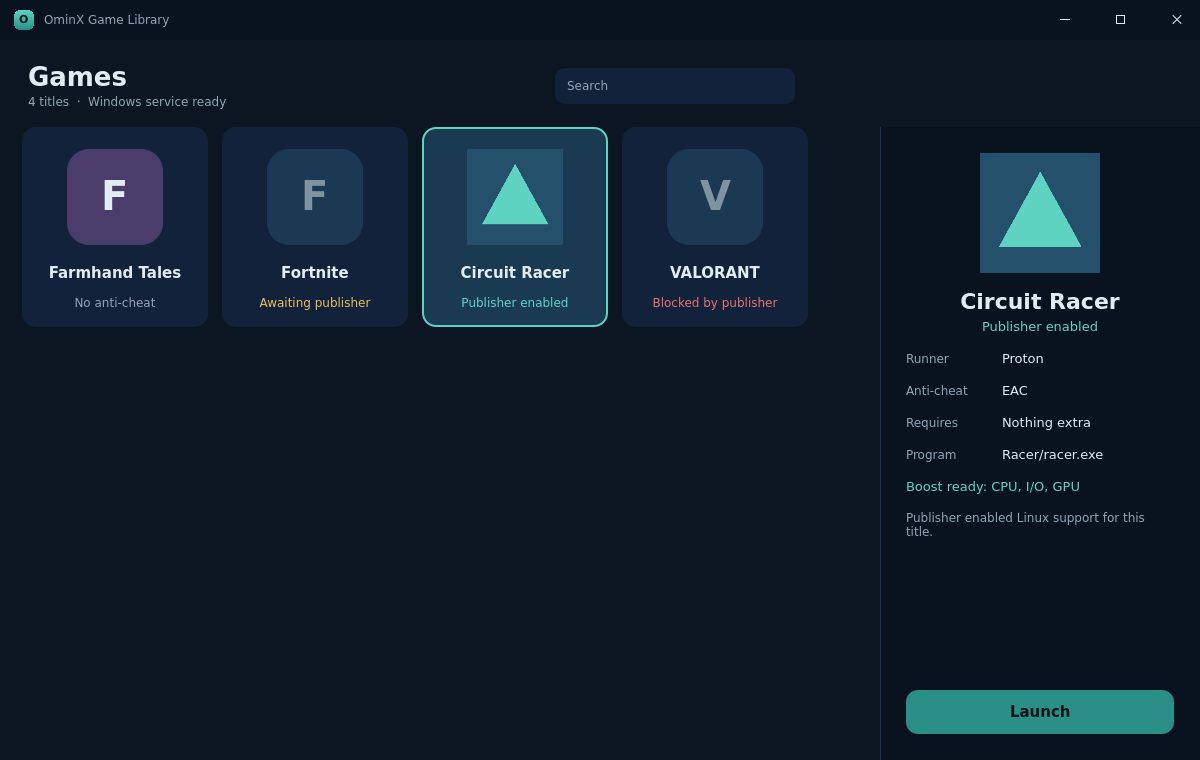
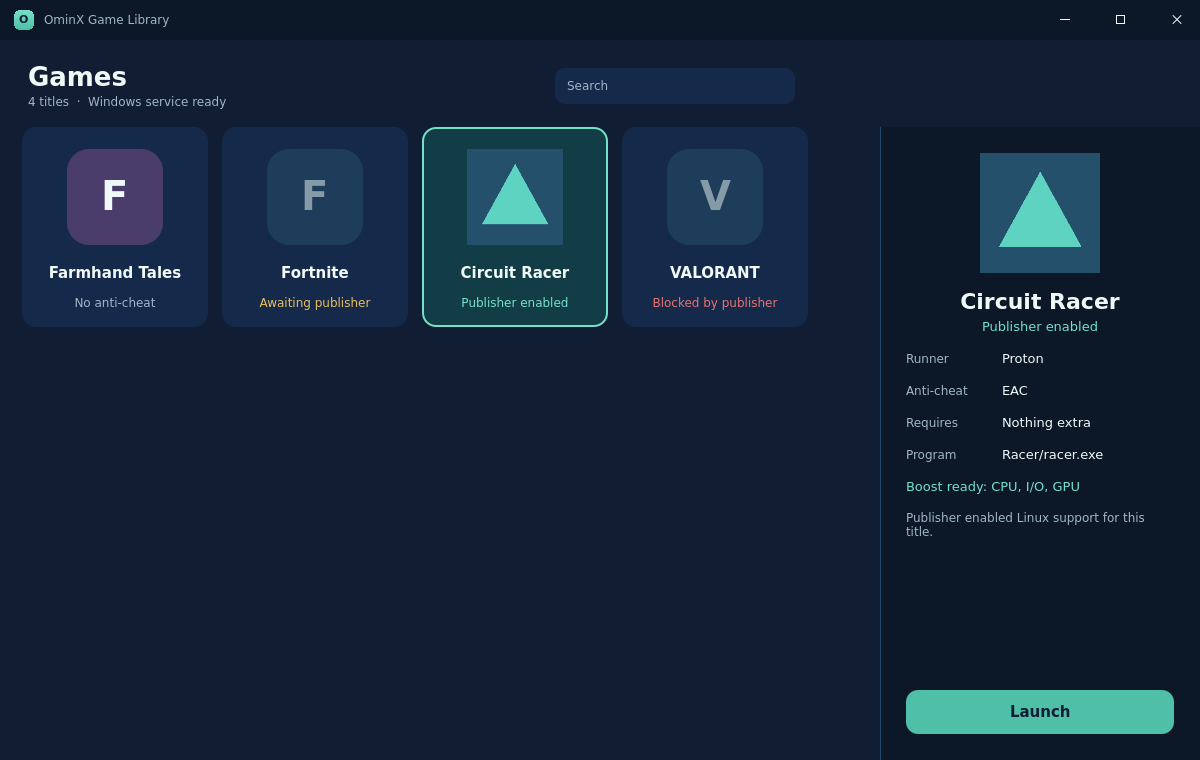
Brand palette, extra filesystems, and product status matrix
- Game library uses the OminX brand palette (navy, teal, dark cyan,
  slate blue, soft white).
- build.sh enables EXT2, EXT3, BTRFS and XFS alongside the existing
  NTFS, exFAT, FAT32, ext4, ISO9660 and UDF options.
- docs/product-status.md maps every claim in the OminXOS brief to what
  the repository does, marking each as built, partial, not started, or
  target. Unmeasured figures, including the 89% compatibility target,
  are not claimed.

Changed region(s): [[0.74, 0.9079, 0.9867, 0.9684], [0.0, 0.0, 0.0308, 0.0605]]

diff --git a/desktop/game-library/qml/Theme.qml b/desktop/game-library/qml/Theme.qml
@@ -5,21 +5,28 @@ import QtQuick
 // Labels map the stable JSON values from `ominx-win game list --json` to words
 // a player understands. The JSON values never change; only the wording does.
 QtObject {
-    readonly property color background: "#0b1622"
-    readonly property color chrome: "#091320"
-    readonly property color card: "#12223a"
-    readonly property color cardHover: "#172c47"
-    readonly property color cardSelected: "#1a3a52"
-    readonly property color hover: "#16283d"
-    readonly property color line: "#1d3350"
-    readonly property color accent: "#5fd3c1"
-    readonly property color accentDeep: "#2a8f87"
+    // OminX brand palette: Deep Navy, Ocean Teal, Dark Cyan, Slate Blue, Soft White.
+    readonly property color navy: "#101d32"
+    readonly property color teal: "#74e0c7"
+    readonly property color darkCyan: "#123d46"
+    readonly property color slate: "#244767"
+    readonly property color softWhite: "#eff9f7"
+
+    readonly property color background: navy
+    readonly property color chrome: "#0c1728"
+    readonly property color card: "#15294a"
+    readonly property color cardHover: "#1b3558"
+    readonly property color cardSelected: darkCyan
+    readonly property color hover: "#1b3558"
+    readonly property color line: "#24466a"
+    readonly property color accent: teal
+    readonly property color accentDeep: "#4fbfa8"
     readonly property color amber: "#e8be60"
     readonly property color red: "#e87171"
     readonly property color closeRed: "#c42b1c"
-    readonly property color text: "#e2ecf2"
-    readonly property color muted: "#8fa4b4"
-    readonly property color disabled: "#3b5165"
+    readonly property color text: softWhite
+    readonly property color muted: "#9fb6c6"
+    readonly property color disabled: "#3d5a78"
 
     // Monogram tile colours when a title has no icon file. Chosen per runner.
     function tileColor(runner) {

diff --git a/desktop/game-library/qml/TitleBar.qml b/desktop/game-library/qml/TitleBar.qml
@@ -33,7 +33,7 @@ Rectangle {
                 GradientStop { position: 0; color: Theme.accent }
                 GradientStop { position: 1; color: Theme.accentDeep }
             }
-            Text { anchors.centerIn: parent; text: bar.mark; color: "#06141a"; font.pixelSize: 11; font.weight: Font.Black }
+            Text { anchors.centerIn: parent; text: bar.mark; color: Theme.navy; font.pixelSize: 11; font.weight: Font.Black }
         }
 
         Text {

diff --git a/desktop/game-library/qml/DetailPanel.qml b/desktop/game-library/qml/DetailPanel.qml
@@ -139,7 +139,7 @@ Rectangle {
             Text {
                 anchors.centerIn: parent
                 text: "Launch"
-                color: "#06141a"
+                color: Theme.navy
                 font.pixelSize: 15
                 font.weight: Font.DemiBold
             }

diff --git a/docs/product-status.md b/docs/product-status.md
@@ -1,0 +1,68 @@
+# OminXOS product brief: status against the repository
+
+This file maps each claim in the OminXOS product brief to what the repository
+does today. Status values:
+
+- **Built**: implemented and covered by a test or CI run.
+- **Partial**: some of it exists; the rest is named below.
+- **Not started**: no code in the repository yet.
+- **Target**: a goal, not a measured result. Not claimed as achieved.
+
+Nothing here is a claim of compatibility or performance that has not been measured.
+
+## Desktop and experience
+
+| Brief claim | Status | Notes |
+|---|---|---|
+| Modern desktop, brand palette (navy, teal, cyan, slate, soft white) | Partial | Game library uses the brand palette (`desktop/game-library/qml/Theme.qml`). The Plasma look (`desktop/plasma/`) still uses the earlier Harbor palette and needs a brand pass. |
+| Consistent window controls for OminX apps | Partial | Game library draws its own minimize, maximize and close (`TitleBar.qml`). A KWin rule to suppress the compositor's duplicate frame is not written or tested. |
+| No terminal required; graphical install, printers, network, users, updates | Not started | No graphical settings, printer, network, or user-management UI exists yet. |
+| User-controlled updates; no forced reboots | Not started | No update system exists. |
+| Designed to disappear, fast startup | Target | Not measured. |
+
+## Applications and compatibility
+
+| Brief claim | Status | Notes |
+|---|---|---|
+| `.exe` compatibility | Partial | Wine and Proton runtime built in CI (`wine-runtime.yml`); acceptance boots and runs the Windows services. Per-title results are not yet recorded. |
+| `.msi` compatibility | Partial | `.msi` handling is routed through the Wine runtime. Not verified with real installers. |
+| "89% Windows application compatibility" | Target | Not measured. No test suite of real applications exists yet. This figure must not be used as a claim until measured. |
+| Shortcuts, install and launch from the desktop | Partial | The game library lists titles and launches them through `ominx-win`. Shortcut creation and general app install are not built. |
+| Native `.opkgx` applications | Not started | No format specification or installer exists in the repository. The brief does not define the format, so none has been invented here. |
+| LibreOffice Writer, Calc, Impress, Draw, Base, Math | Not started | Not in the build. |
+| Linux applications | Partial | The base system is source-built; a Wayland compositor and GUI apps are listed as remaining gates in `docs/windows-compatibility.md`. |
+
+## Gaming
+
+| Brief claim | Status | Notes |
+|---|---|---|
+| Vulkan integration | Partial | Vulkan loader and ICD work is listed as a remaining gate (llvmpipe first). |
+| DirectX compatibility | Partial | Through DXVK and vkd3d-proton in the Wine runtime build. Not verified in-game. |
+| Multi-monitor support | Not started | Not in the build. |
+| Game scheduling (CPU, GPU, I/O boost) with up-front compatibility status | Partial | Implemented in `src/lib/gamesched.*` and surfaced in the game library. Real-hardware cgroup and BFQ behaviour is unverified. |
+| Anti-cheat: Valorant blocked, Fortnite pending vendor support | Built | Modelled as a per-title gate. Nothing bypasses anti-cheat. |
+
+## Storage and creators
+
+| Brief claim | Status | Notes |
+|---|---|---|
+| NTFS, exFAT, FAT32 | Built in config | Enabled in `build.sh` (`NTFS3_FS`, `EXFAT_FS`, `VFAT_FS`). Read-only Windows filesystem import is a CI check; read/write is not claimed. |
+| EXT2, EXT3, EXT4 | Built in config | `EXT2_FS`, `EXT3_FS` and `EXT4_FS` are enabled in `build.sh`. |
+| BTRFS, XFS | Built in config | Enabled in `build.sh`. Not yet exercised by a boot test. |
+| ISO images | Built in config | `ISO9660_FS` and `UDF_FS` are enabled. |
+| Creator workloads (3D, video, audio, dev tools) | Not started | No creator application set is shipped. |
+
+## Security and privacy
+
+| Brief claim | Status | Notes |
+|---|---|---|
+| Controlled application environments | Partial | The Wine service is per-user, refuses root, uses a fixed command set, and has no command-exec API. Wine is not a sandbox, and this file does not claim otherwise. |
+| Secure software management | Not started | No package or application signing model exists yet. |
+
+## Next steps, in order
+
+1. Brand pass on the Plasma look and KWin rule for frameless OminX apps.
+2. Extract icons from installed `.exe` files for real titles.
+3. C++ on-target launch bridge for the game library.
+4. Per-title Windows application results on a booted target.
+5. Decide the `.opkgx` format and the installer, with the product owner, before implementing.
